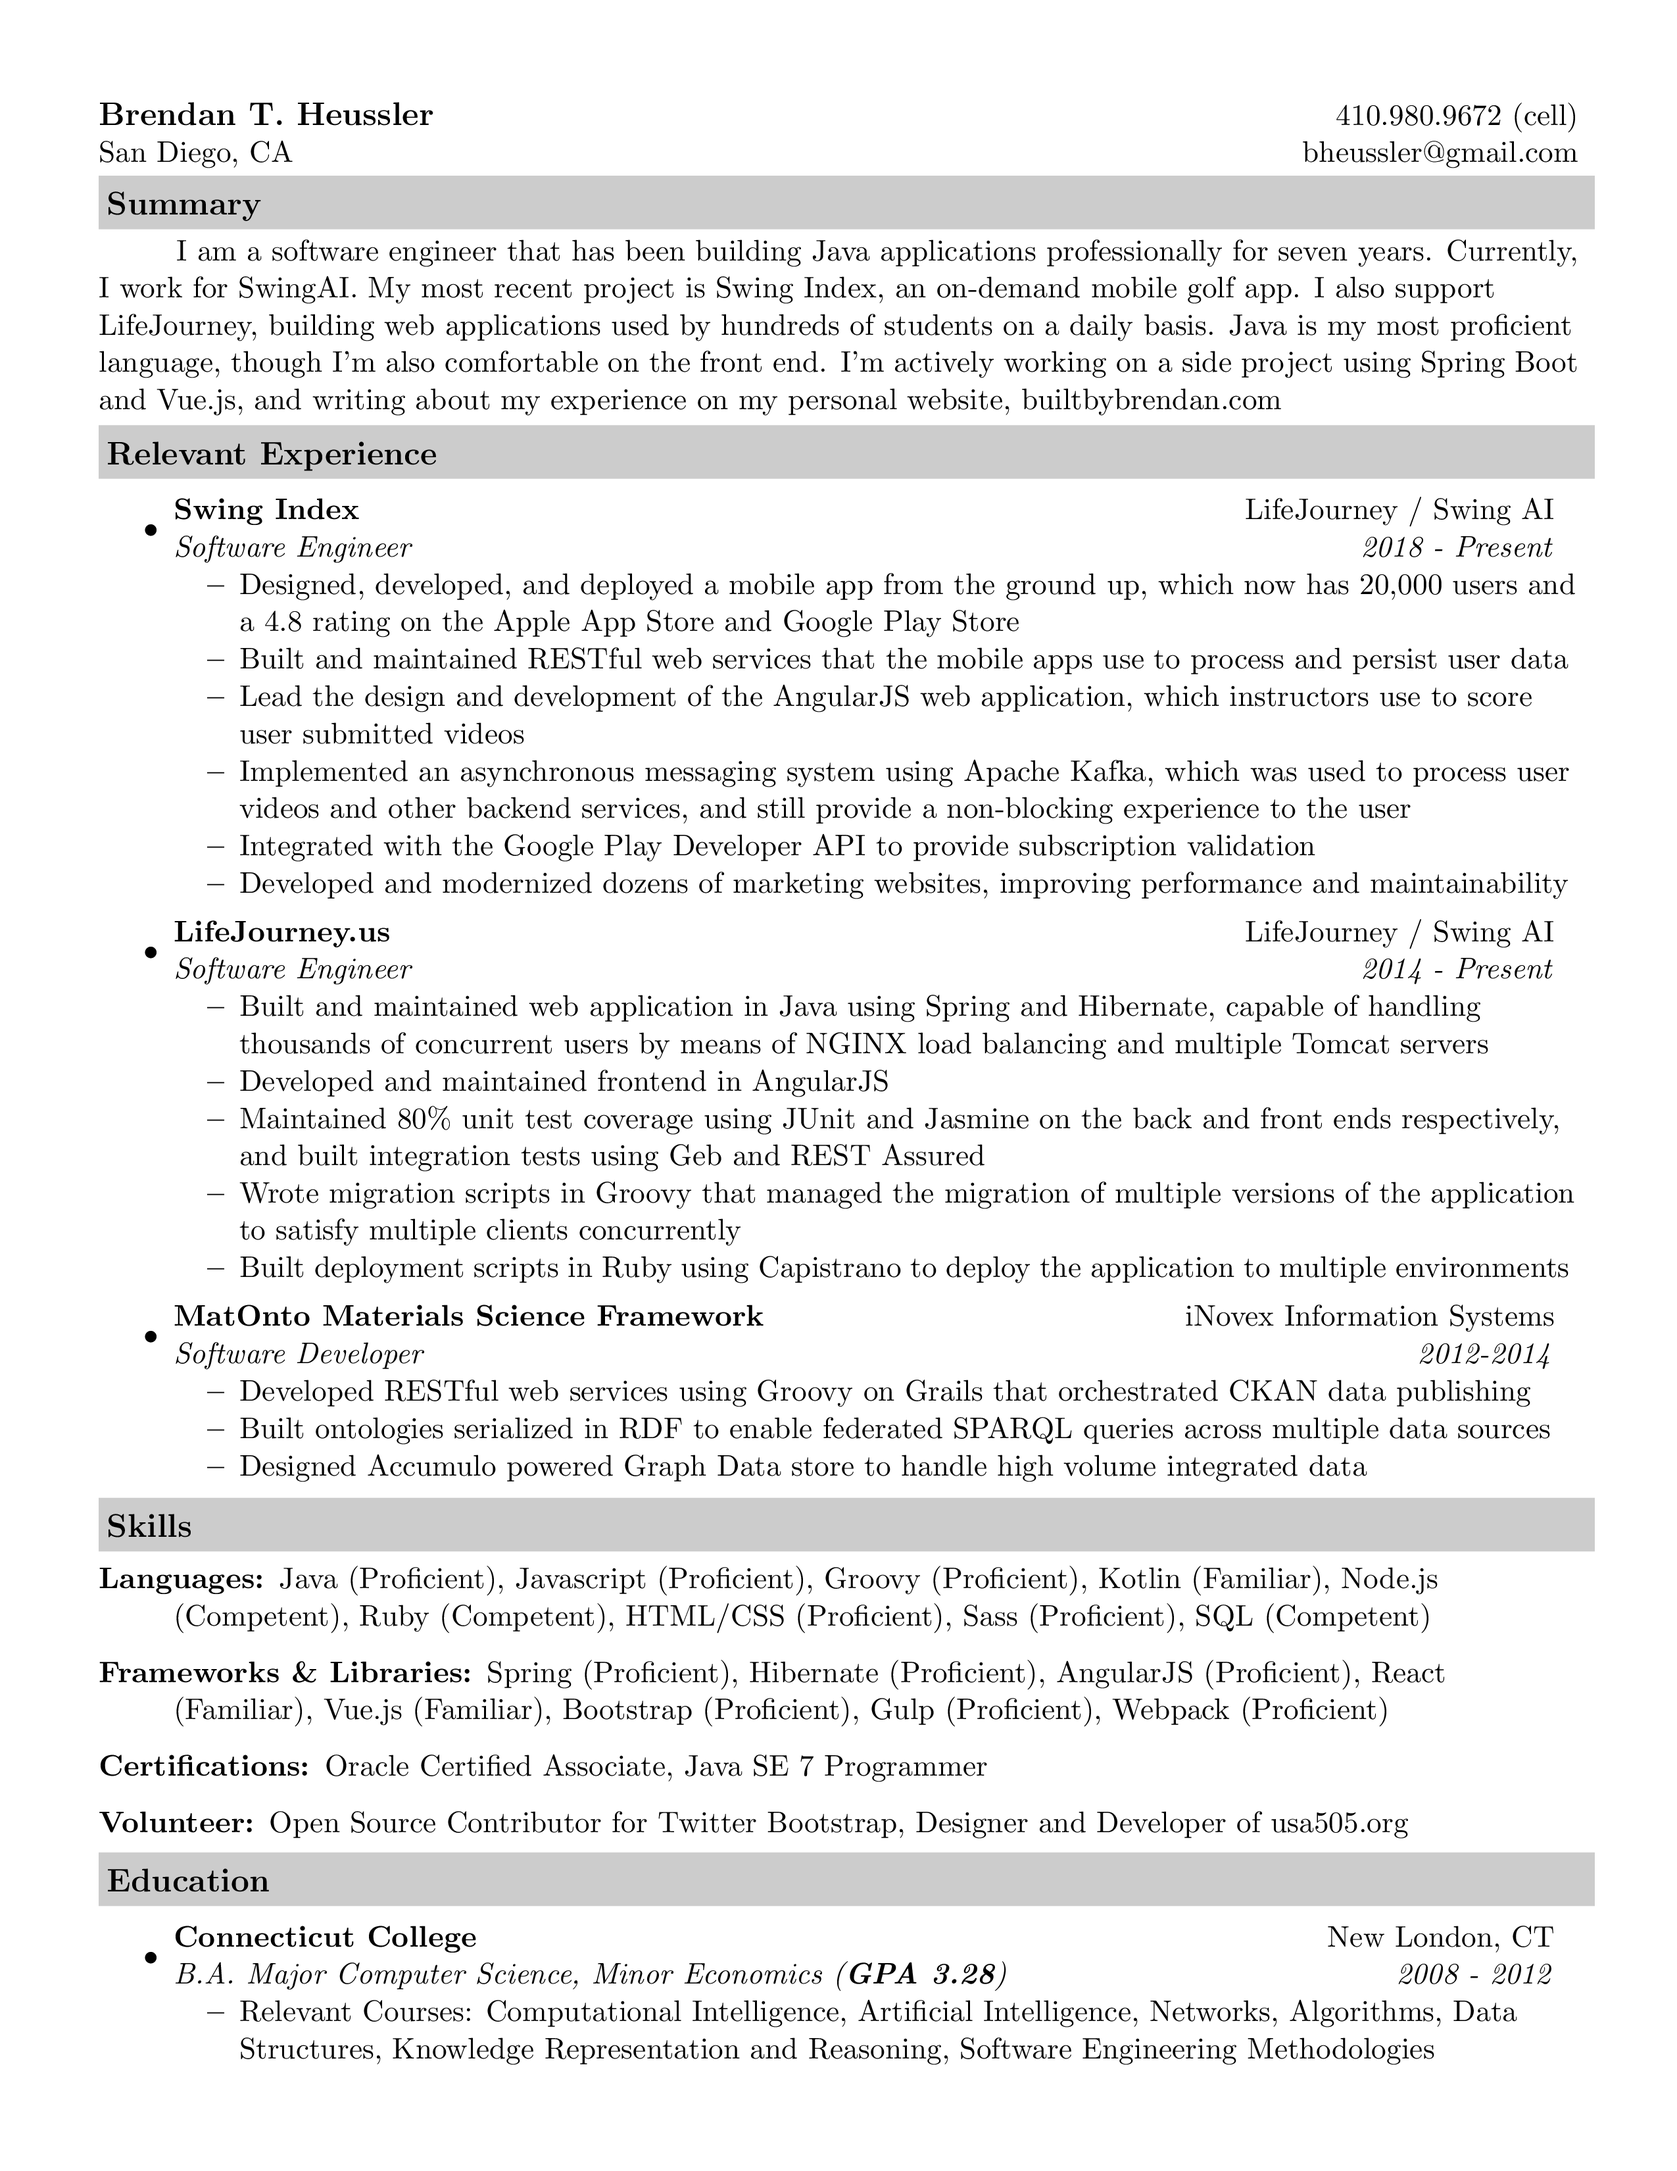
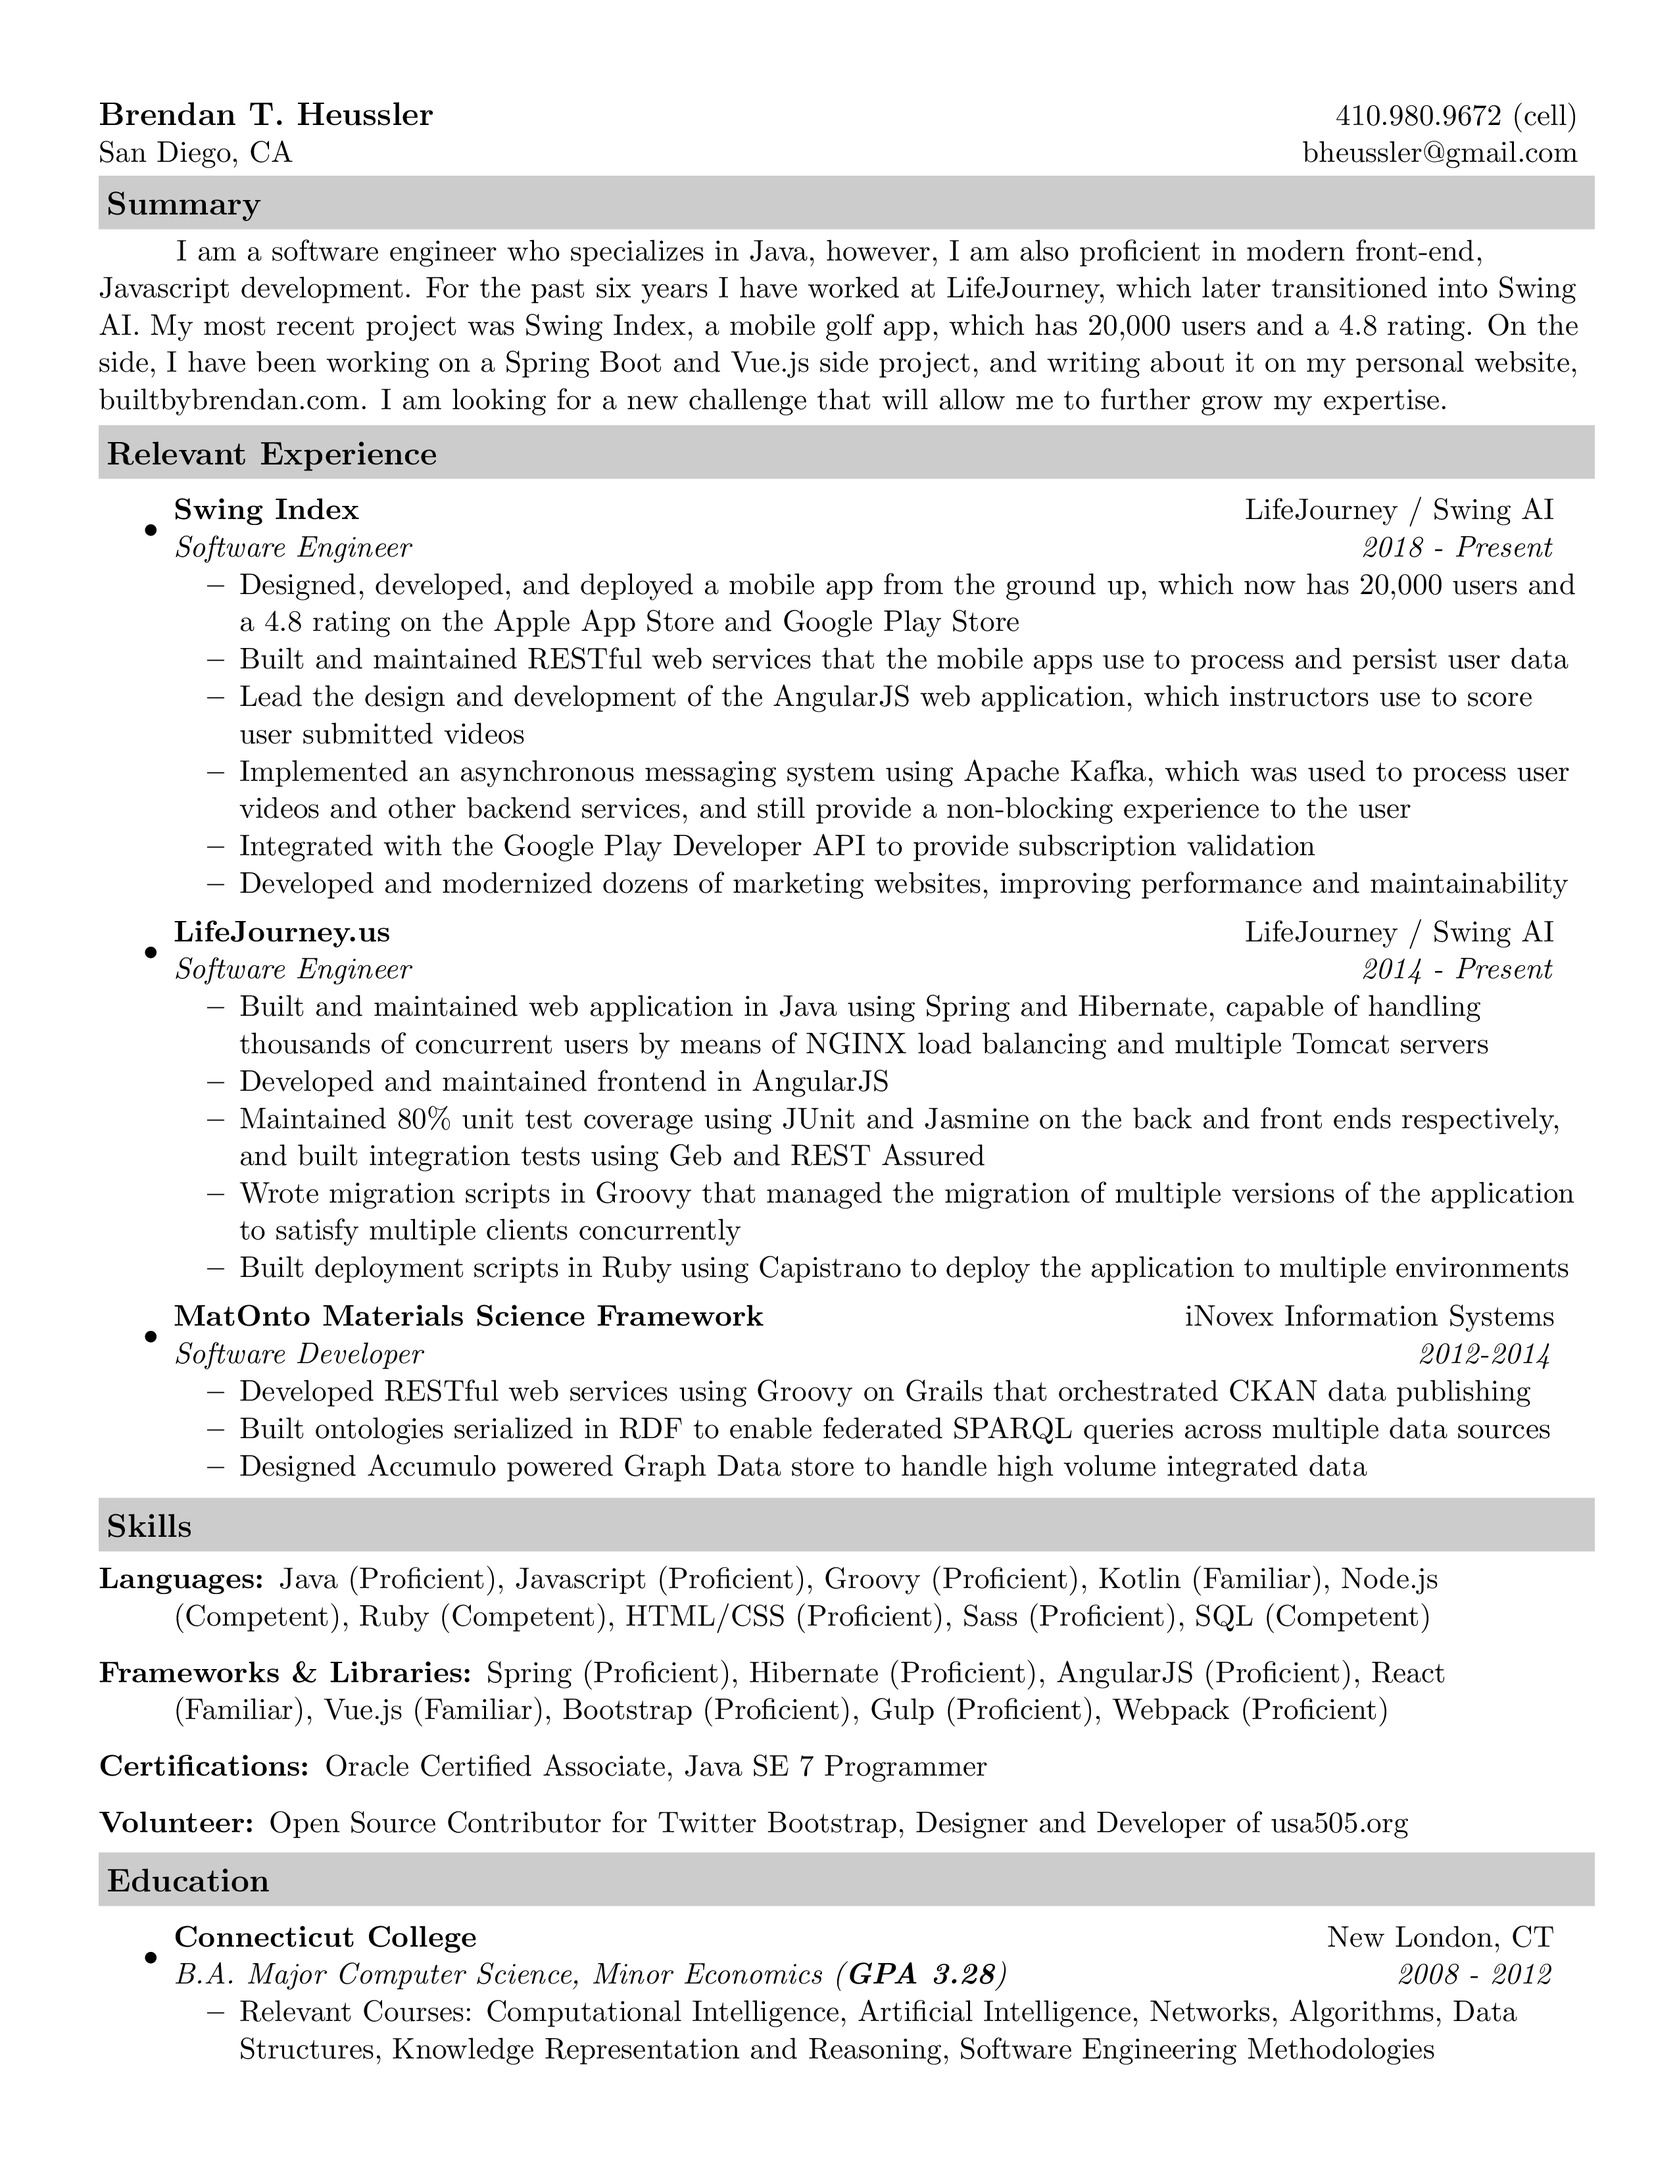
Update summary

Changed region(s): [[0.062, 0.0936, 0.9294, 0.1873]]

diff --git a/Brendan_Heussler_Resume.tex b/Brendan_Heussler_Resume.tex
@@ -50,11 +50,11 @@
 
     \vspace{1mm}
     {\setlength{\parindent}{1cm}
-        I am a software engineer that has been building Java applications professionally for seven years.
-        Currently, I work for SwingAI. My most recent project is Swing Index, an on-demand mobile golf app.
-        I also support LifeJourney, building web applications used by hundreds of students on a daily basis.
-        Java is my most proficient language, though I'm also comfortable on the front end.
-        I'm actively working on a side project using Spring Boot and Vue.js, and writing about my experience on my personal website, builtbybrendan.com
+        I am a software engineer who specializes in Java, however, I am also proficient in modern front-end, Javascript development.
+        For the past six years I have worked at LifeJourney, which later transitioned into Swing AI.
+        My most recent project was Swing Index, a mobile golf app, which has 20,000 users and a 4.8 rating.
+        On the side, I have been working on a Spring Boot and Vue.js side project, and writing about it on my personal website, builtbybrendan.com.
+        I am looking for a new challenge that will allow me to further grow my expertise.
     }
     \vspace{1mm}
 
